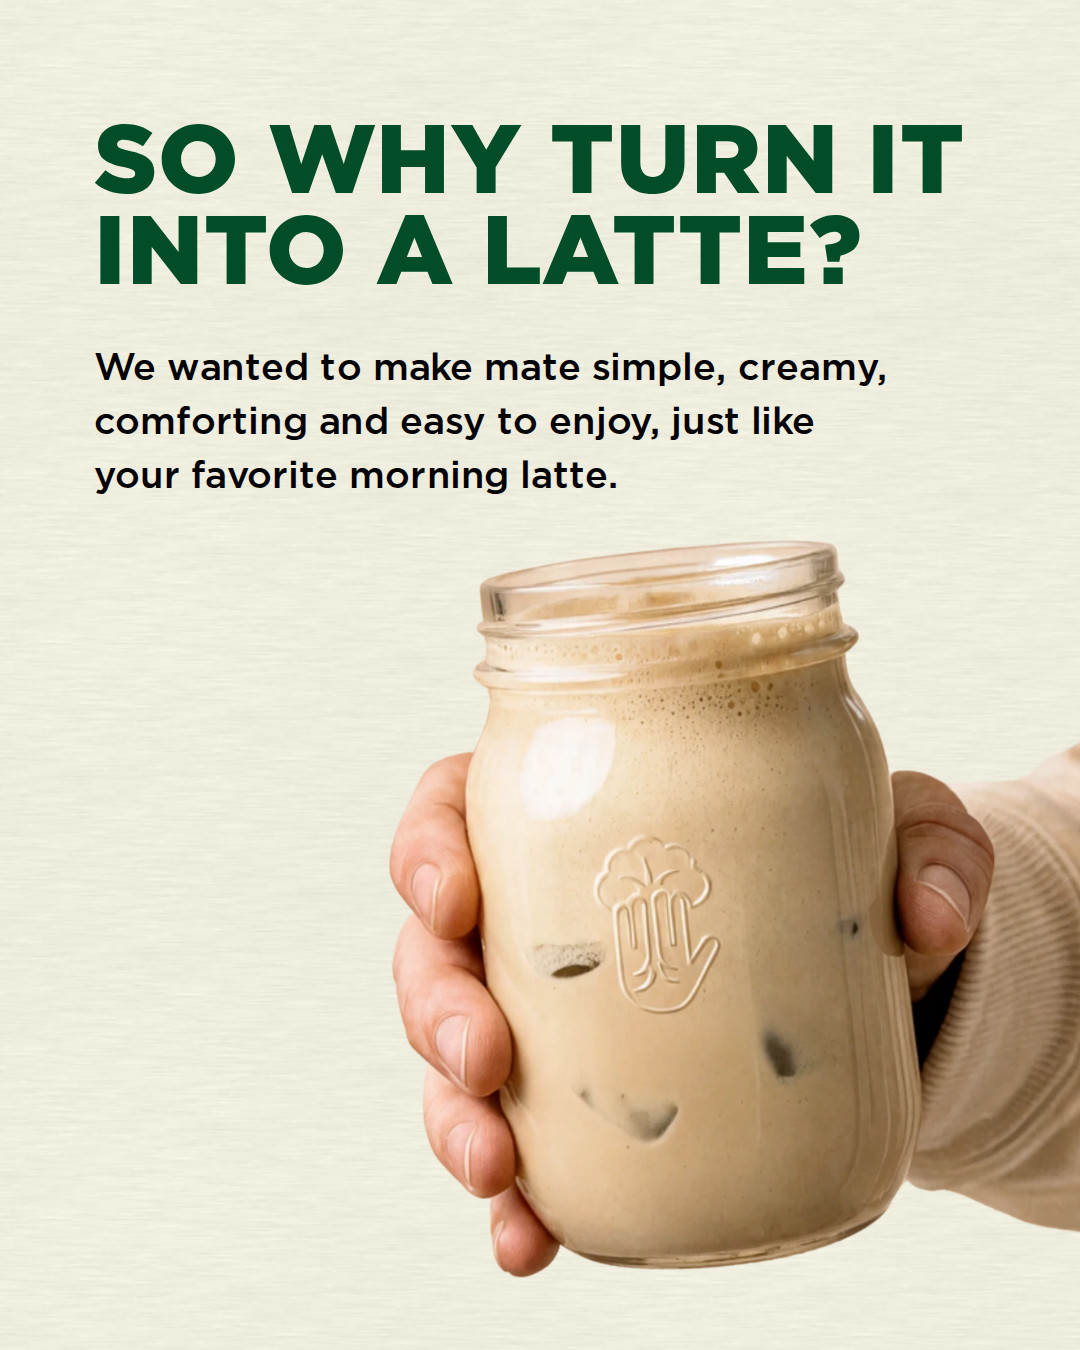
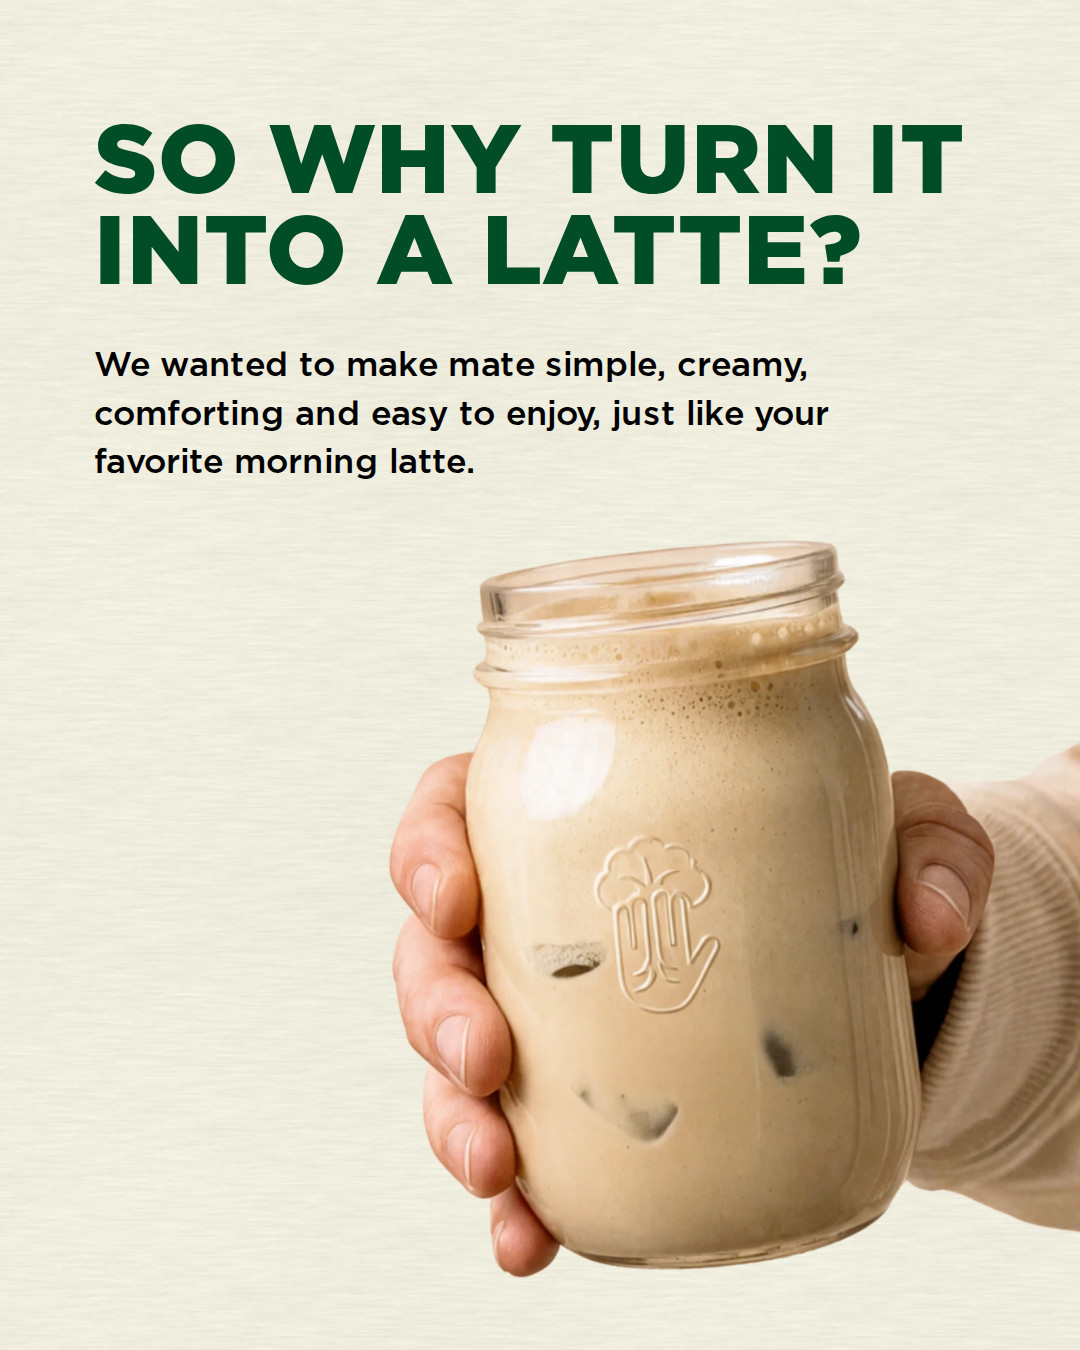
carousel: centre the splash, flatten the counter labels, ease slide 2
Slide 5's still life was running edge to edge, so the leaf splash came up
under the title and the spec line sat on the LION'S MANE label. Rebuilt the
ground from the native file: measured the composition (source y 280-1700),
scaled it so that band lands at 157-645 design units, and feathered it 90px
into a blurred copy of itself. That leaves 41 units of air above the picture
and 44 below — the same gap, top and bottom — and the spec line moves to 34
off the foot to hold it.

Slide 4 drops the label halo. Slide already hard-coded the dense four-layer
shadow on every label, so Slide gains a labelHalo prop ('auto' | 'soft' |
'none') the way T9Story has. Flat is safe here and it was not in the email:
moving HOT to the left third put it on ground measuring about 99 rather than
the 200-plus marble on the right. The closing line comes down 29 -> 25 so it
sits under the cup rather than competing with it.

Slide 2's paragraph goes 21 -> 19 on a 430 measure.

Claude-Session: https://claude.ai/code/session_01NhEtXPnfeCJfN73SqBkUZ5

Changed region(s): [[0.0917, 0.2489, 0.825, 0.3733]]

diff --git a/email-ds/emails/carousel/mate-latte-why.jsx b/email-ds/emails/carousel/mate-latte-why.jsx
@@ -11,7 +11,11 @@ const IMG = {
   counter: '../public/product/latte-counter.jpg',
   gourd: '../public/product/mate-gourd.png',
   cup: '../public/product/latte-cup-top.png',
-  splash: '../public/product/ingredient-splash.jpg',
+  // The still life re-laid for a 4:5 frame: the composition sits in the middle
+  // of the picture with a clear band above and below, so the title and the
+  // spec line each have ground of their own instead of landing on the leaf
+  // splash. Built from the native file, on a blurred copy of itself.
+  splash: '../public/product/ingredient-splash-45.jpg',
   jar: '../public/product/jar-in-hand.png',
 };
 
@@ -42,7 +46,7 @@ function CarouselMateLatteWhy() {
       h(M.SlideTitle, { line1: 'So why turn it', line2: 'into a latte?',
         size: 54, lead: 0.94, color: '#004D27', color2: '#004D27' }),
       h(M.SlideBody, { text: 'We wanted to make mate simple, creamy, comforting and easy to enjoy, just like your favorite morning latte.',
-        size: 21, color: '#000000', measure: 450, top: 22 }),
+        size: 19, color: '#000000', measure: 430, top: 22 }),
       h('img', { src: IMG.jar, alt: 'A hand holding a jar of iced Milonga Mate Latte',
         style: { position: 'absolute', right: -58, bottom: 40, width: 442,
                  height: 'auto', display: 'block' } }),
@@ -72,7 +76,10 @@ function CarouselMateLatteWhy() {
     // 4 · HOT OR ICED. Title upper left, a label pinned to each cup exactly as
     // the email has them, and the line that ties them together centred at the
     // foot where a reader finishes.
+    // Flat labels, no halo. Both sit on the left third, which the scrim and
+    // the window's own falloff keep dark — measured before the halo came off.
     S({ src: IMG.counter, scrim: 0.46, scrimAt: 'bottom', align: 'top', padX: 44, padY: 48,
+        labelHalo: 'none',
         labels: [
           { text: 'Iced', note: 'Creamy & refreshing', top: '40%', left: '4%', width: 170, size: 34 },
           { text: 'Hot', note: 'Smooth & cozy', top: '69%', left: '4%', width: 175, size: 34 },
@@ -81,7 +88,7 @@ function CarouselMateLatteWhy() {
         size: 46, lead: 0.96, color: '#FFFFFF', onPhoto: true }),
       h('div', { style: { position: 'absolute', left: 0, right: 0, bottom: 22, padding: '0 44px' } },
         h(M.SlideBody, { text: 'Same mate.\nA whole new way to enjoy it.',
-          size: 29, align: 'center', measure: 470, onPhoto: true, top: 0 }),
+          size: 25, align: 'center', measure: 470, onPhoto: true, top: 0 }),
       ),
     ),
 
@@ -91,7 +98,10 @@ function CarouselMateLatteWhy() {
     S({ src: IMG.splash, align: 'top', padX: 48, padY: 52 },
       h(M.SlideTitle, { line1: 'Everything you love', line2: 'about mate, and more.',
         size: 32, lead: 1.0, align: 'center', color: '#FFFFFF', color2: '#E3BC62', onPhoto: true }),
-      h('div', { style: { position: 'absolute', left: 0, right: 0, bottom: 30, padding: '0 40px', textAlign: 'center' } },
+      // 34 off the foot, against the title's 52 off the head: the picture's
+      // content band runs 157 to 645, so that leaves 41 units of air above it
+      // and 44 below — the same gap, top and bottom.
+      h('div', { style: { position: 'absolute', left: 0, right: 0, bottom: 34, padding: '0 40px', textAlign: 'center' } },
         h('div', { style: { fontFamily: 'Gotham, Montserrat, sans-serif', fontWeight: 900,
           fontSize: 19, letterSpacing: '0.13em', textTransform: 'uppercase', color: '#E3BC62',
           lineHeight: 1.4, textShadow: '0 1px 6px rgba(0,26,13,0.6)' } },

diff --git a/email-ds/src/components/Carousel.tsx b/email-ds/src/components/Carousel.tsx
@@ -71,11 +71,17 @@ export interface SlideProps {
   index?: string;
   /**
    * Text pinned to things in the photograph. Positioned in percentages so a
-   * name stays on its subject whatever the crop does. Always carries a dense
-   * halo: a headline picks its own patch of picture, a label has to sit where
-   * its subject is, and that is often the brightest part of the shot.
+   * name stays on its subject whatever the crop does.
    */
   labels?: SlideLabel[];
+  /**
+   * How hard the labels are held off their background. 'auto' is the dense
+   * four-layer halo — a headline picks its own patch of picture, a label has
+   * to sit where its subject is, and that is often the brightest part of the
+   * shot. 'soft' is one quiet shadow; 'none' is flat letters, which is only
+   * safe where the ground under them has been measured.
+   */
+  labelHalo?: 'auto' | 'soft' | 'none';
   children?: React.ReactNode;
 }
 
@@ -99,6 +105,7 @@ export function Slide({
   logoHeight = 52,
   index,
   labels = [],
+  labelHalo = 'auto',
   children,
 }: SlideProps) {
   const t = onBg[bg];
@@ -114,6 +121,9 @@ export function Slide({
           : scrimAt === 'middle'
             ? `linear-gradient(to bottom, rgba(0,26,13,${k(0.2)}) 0%, rgba(0,26,13,${k(0.62)}) 38%, rgba(0,26,13,${k(0.62)}) 66%, rgba(0,26,13,${k(0.2)}) 100%)`
             : `linear-gradient(to bottom, rgba(0,26,13,${k(0.5)}) 0%, rgba(0,26,13,${k(0.5)}) 100%)`;
+
+  const haloCss =
+    labelHalo === 'none' ? 'none' : labelHalo === 'soft' ? '0 1px 4px rgba(0,26,13,0.45)' : LABEL_HALO;
 
   return (
     <div
@@ -192,7 +202,7 @@ export function Slide({
             style={{
               ...caps(l.size ?? 34, '0.14em', l.color ?? colors.gold),
               lineHeight: 1.05,
-              textShadow: LABEL_HALO,
+              textShadow: haloCss,
             }}
           >
             {l.text}
@@ -209,7 +219,7 @@ export function Slide({
                 lineHeight: 1.35,
                 color: l.noteColor ?? colors.beige,
                 marginTop: 9,
-                textShadow: LABEL_HALO,
+                textShadow: haloCss,
               }}
             >
               {l.note}
